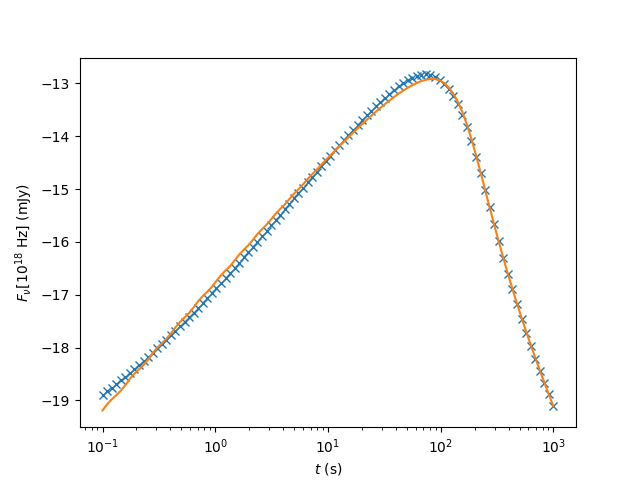
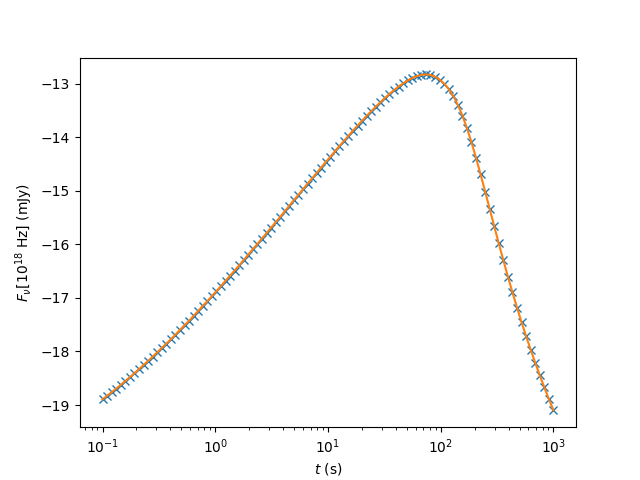
made a leastsquares fit for frequency domain and pip installed emcee

diff --git a/Freq.py b/Freq.py
@@ -6,7 +6,7 @@ from scipy.optimize import least_squares
 
 #imbed the flux calcuation within a function
 
-def ag_py(t,thetaObs,thetaCore,thetaWing,n0,p,epsilon_e,epsilon_B,E0):
+def ag_py(nu,thetaObs,thetaCore,thetaWing,n0,p,epsilon_e,epsilon_B,E0):
 	Z = {'jetType':     grb.jet.Gaussian,     # Gaussian jet your discrepancy
 		 'specType':    grb.jet.SimpleSpec,   # Basic Synchrotron Emission Spectrum 
 
@@ -23,10 +23,7 @@ def ag_py(t,thetaObs,thetaCore,thetaWing,n0,p,epsilon_e,epsilon_B,E0):
 		 'z':           0.01}   # redshift -known
 
 	# Calculate flux in a single X-ray band (all times have same frequency)
-	nu = np.empty(t.shape)
-	nu[:] = 1.0e18 #x-ray
-	nu = np.empty(t.shape)
-	nu[:] = 1.0e18 #x-ray
+	t = 1.0 * grb.day2sec  # spectrum at 1 day
 
 	# Calculate!
 
@@ -39,9 +36,11 @@ def fitwrapper(coeffs, *args):
 
 # Space time points geometrically, from 10^3 s to 10^7 s
 # Time and Frequencies
-ta = 1.0e-1 * grb.day2sec
-tb = 1.0e3 * grb.day2sec
-t = np.geomspace(ta, tb, num=100)
+nua = 1.0e0   # Low Frequencies in Hz
+nub = 1.0e20  # High Frequencies in Hz
+
+
+nu = np.geomspace(nua, nub, num=100)
 
 #initial parameter guesses
 thetaObs = 0.4
@@ -61,7 +60,7 @@ guess = [thetaObs,thetaCore,thetaWing,n0,p,epsilon_e,epsilon_B,E0]
 b = ((0.0,0.0,0.0,0.0,1.8,0.0,0.0,51),(np.pi*0.5,0.2,0.4,0.1,3.0,0.1,0.01,54))
 
 # import generated data
-xdata, ydata = np.genfromtxt('./data/test_curve.txt',delimiter=',',skip_header=11, unpack=True)
+xdata, ydata = np.genfromtxt('./spec.txt',delimiter=',',skip_header=2, unpack=True)
 xlog,ylog = np.log(xdata),np.log(ydata)
 
 #locate peak in data
@@ -80,18 +79,19 @@ p = out.x
 
 
 #calculated flux curve based off fitted parameters
-Fnu = ag_py(t,p[0],p[1],p[2],p[3],p[4],p[5],p[6],p[7])
+Fnu = ag_py(nu,p[0],p[1],p[2],p[3],p[4],p[5],p[6],p[7])
 
 print(f'thetaObs: {p[0]}\n thetaCore: {p[1]}\n thetaWing: {p[2]}\n n0: {p[3]}\n p: {p[4]}\n epsilon_e: {p[5]}\n epsilon_B: {p[6]}\n E0: {p[7]}')
 
-tday = t * grb.sec2day
 
 fig, ax = plt.subplots(1, 1)
 
-ax.plot(tday,ylog,'x')
-ax.plot(tday, Fnu)
+ax.plot(nu,ylog,'x')
+ax.plot(nu, Fnu)
 
-ax.set(xscale='log', xlabel=r'$t$ (s)', ylabel=r'$F_\nu$[$10^{18}$ Hz] (mJy)')
+ax.set_xscale('log')
+ax.set_xlabel(r'$\nu$ (Hz)')
+ax.set_ylabel(r'$F_\nu$[1 day] (mJy)')
 
-fig.savefig('datafit.png')
+fig.savefig('freqfit.png')
 plt.close(fig)

diff --git a/plotSpectrum.py b/plotSpectrum.py
@@ -1,0 +1,49 @@
+import numpy as np
+import matplotlib.pyplot as plt
+import afterglowpy as grb
+
+Z = {'jetType':     grb.jet.TopHat,     # Top-Hat jet
+     'specType':    grb.jet.SimpleSpec, # Basic Synchrotron Emission Spectrum
+
+     'thetaObs':    0.05,   # Viewing angle in radians
+     'E0':          1.0e53, # Isotropic-equivalent energy in erg
+     'thetaCore':   0.1,    # Half-opening angle in radians
+     'n0':          1.0,    # circumburst density in cm^{-3}
+     'p':           2.2,    # electron energy distribution index
+     'epsilon_e':   0.1,    # epsilon_e
+     'epsilon_B':   0.01,   # epsilon_B
+     'xi_N':        1.0,    # Fraction of electrons accelerated
+     'd_L':         1.0e28, # Luminosity distance in cm
+     'z':           0.55}   # redshift
+
+
+nua = 1.0e0   # Low Frequencies in Hz
+nub = 1.0e20  # High Frequencies in Hz
+
+t = 1.0 * grb.day2sec  # spectrum at 1 day
+nu = np.geomspace(nua, nub, num=100)
+
+print("Calculating")
+Fnu = grb.fluxDensity(t, nu, **Z)
+
+print("Writing spec.txt")
+with open("spec.txt", 'w') as f:
+    f.write("# t " + str(t) + ' (s)\n')
+    f.write("# nu(Hz)   Fnu(mJy)\n")
+    for i in range(len(nu)):
+        f.write("{0:.6e}, {1:.6e}\n".format(nu[i], Fnu[i]))
+
+print("Plotting")
+fig, ax = plt.subplots(1, 1)
+
+ax.plot(nu, Fnu)
+
+ax.set_xscale('log')
+ax.set_yscale('log')
+ax.set_xlabel(r'$\nu$ (Hz)')
+ax.set_ylabel(r'$F_\nu$[1 day] (mJy)')
+
+fig.tight_layout()
+print("Saving figure spec.png")
+fig.savefig("spec.png")
+plt.close(fig)

diff --git a/Freq_fitting.py b/Freq_fitting.py
@@ -1,0 +1,21 @@
+import numpy as np
+import matplotlib.pyplot as plt
+import afterglowpy as grb
+
+Z = {'jetType':     grb.jet.TopHat,     # Top-Hat jet
+     'specType':    grb.jet.SimpleSpec, # Basic Synchrotron Emission Spectrum
+
+     'thetaObs':    0.05,   # Viewing angle in radians
+     'E0':          1.0e53, # Isotropic-equivalent energy in erg
+     'thetaCore':   0.1,    # Half-opening angle in radians
+     'n0':          1.0,    # circumburst density in cm^{-3}
+     'p':           2.2,    # electron energy distribution index
+     'epsilon_e':   0.1,    # epsilon_e
+     'epsilon_B':   0.01,   # epsilon_B
+     'xi_N':        1.0,    # Fraction of electrons accelerated
+     'd_L':         1.0e28, # Luminosity distance in cm
+     'z':           0.55}   # redshift
+
+
+nua = 1.0e0   # Low Frequencies in Hz
+nub = 1.0e20  # High Frequencies in Hz
